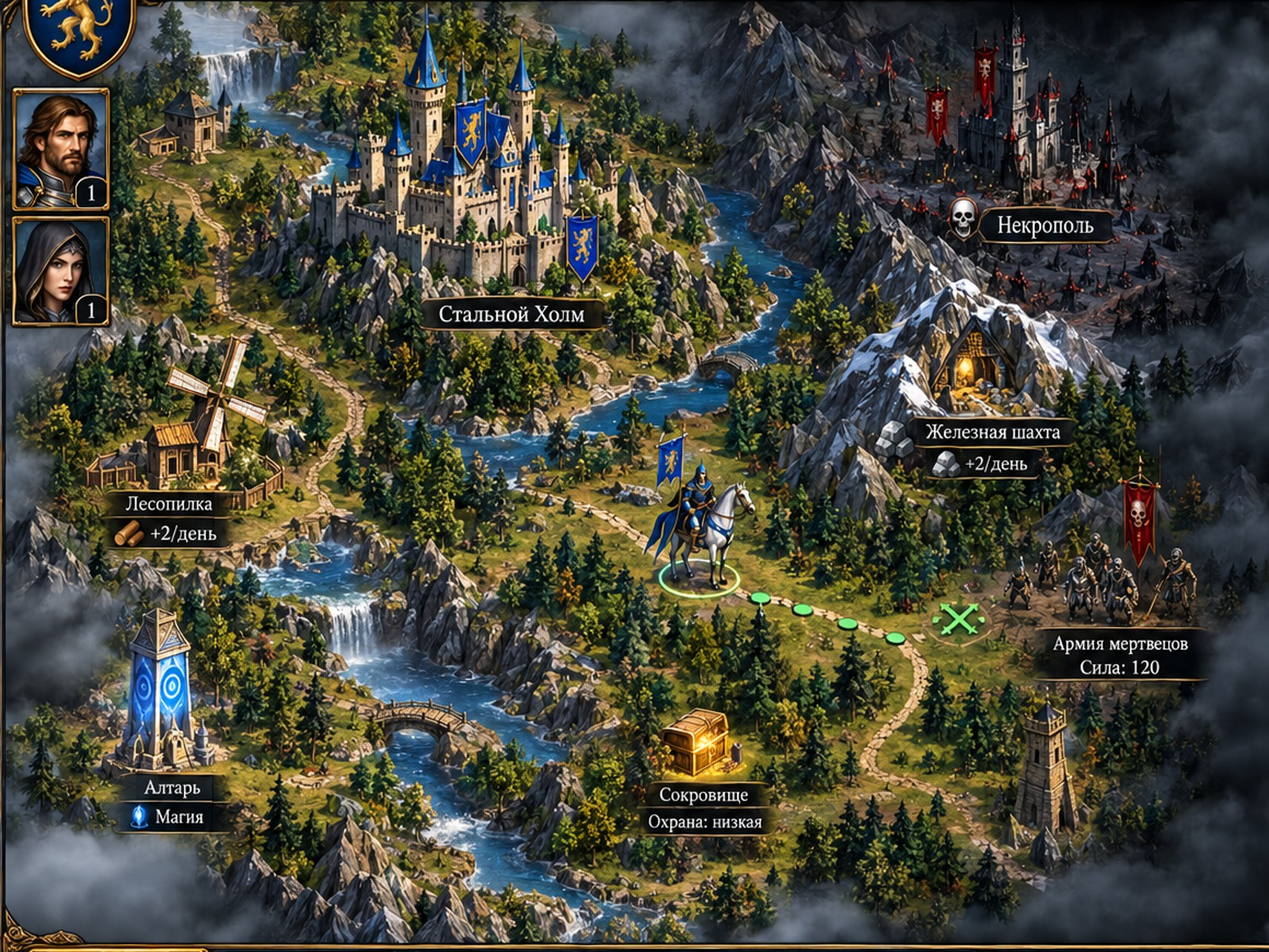
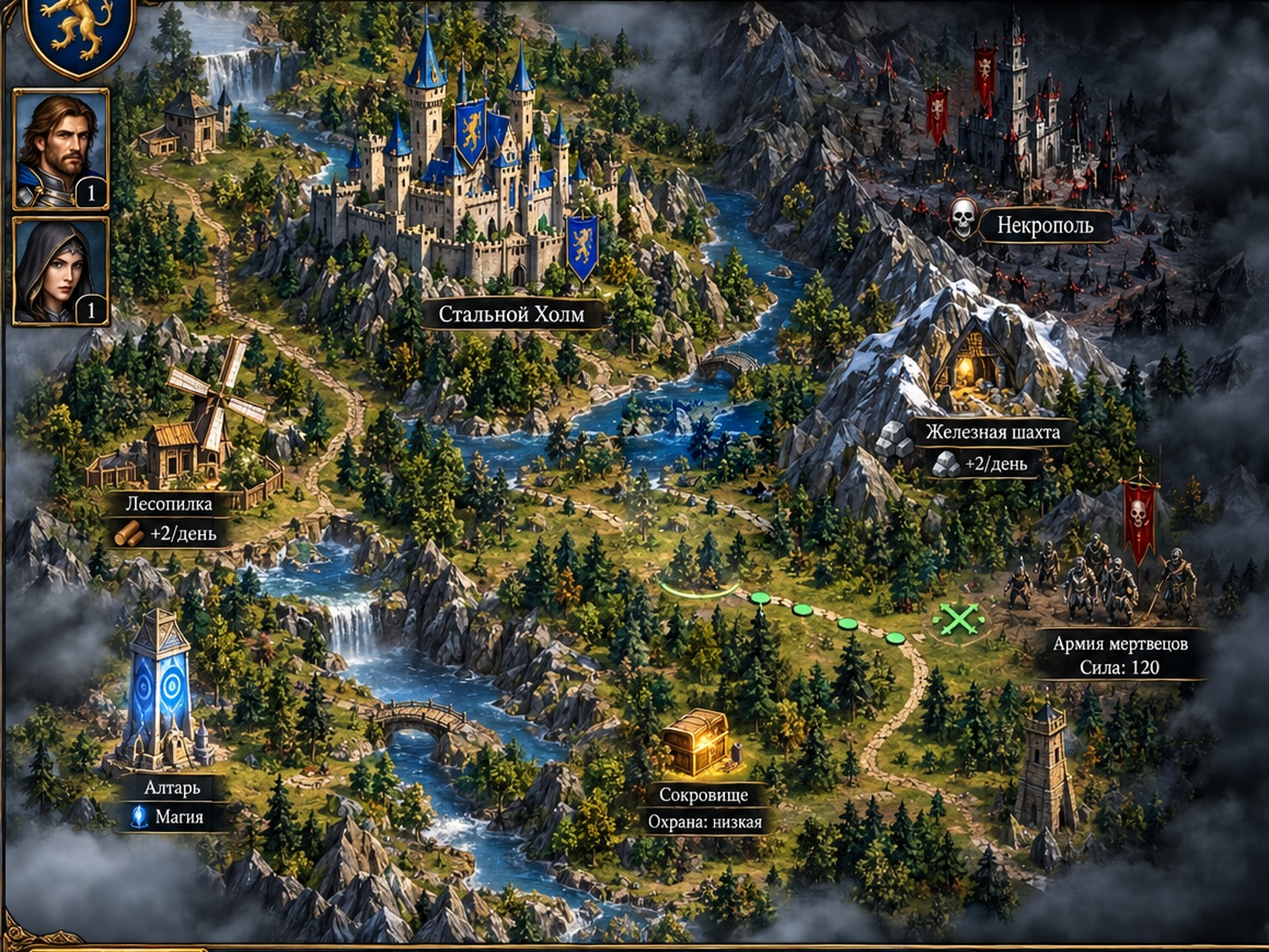
Add files via upload

Changed region(s): [[0.4688, 0.4008, 0.625, 0.6167]]

diff --git a/index.html b/index.html
@@ -8,7 +8,7 @@
 <meta name="apple-mobile-web-app-status-bar-style" content="black-translucent">
 <meta name="apple-mobile-web-app-title" content="Королевства Пепла">
 <link rel="manifest" href="manifest.webmanifest"><link rel="apple-touch-icon" href="icon-180.png?v=721788568925">
-<title>Королевства Пепла 8.3.1 — Kingdom Edition</title>
+<title>Королевства Пепла 8.4.1 — Kingdom Edition</title>
 <style>
 :root{--gold:#ddb45c;--text:#f4ecd8;--muted:#b8af9c;--line:#735b29;--panel:#101611;--panel2:#192219}
 *{box-sizing:border-box;-webkit-tap-highlight-color:transparent}
@@ -71,11 +71,11 @@ button{font:inherit;color:inherit;touch-action:manipulation}
 <script>
 window.addEventListener('error',e=>{
  let b=document.getElementById('devVersionBadge');
- if(b){b.textContent='v8.4 · JS ERROR: '+String(e.message||'').slice(0,28);b.style.color='#ff8c7a';b.title=e.message||'JavaScript error'}
+ if(b){b.textContent='v8.4.1 · JS ERROR: '+String(e.message||'').slice(0,28);b.style.color='#ff8c7a';b.title=e.message||'JavaScript error'}
 });
 window.addEventListener('unhandledrejection',e=>{
  let b=document.getElementById('devVersionBadge');
- if(b){b.textContent='v8.4 · PROMISE ERROR';b.style.color='#ff8c7a'}
+ if(b){b.textContent='v8.4.1 · PROMISE ERROR';b.style.color='#ff8c7a'}
 });
 </script>
 <style>
@@ -87,7 +87,7 @@ window.addEventListener('unhandledrejection',e=>{
 </style>
 
 </head>
-<body><div id="devVersionBadge">v8.4</div><main class="app">
+<body><div id="devVersionBadge">v8.4.1</div><main class="app">
 <div class="top"><span class="r">🪙 <b id="gold"></b></span><span class="r">🪵 <b id="wood"></b></span><span class="r">🪨 <b id="ore"></b></span><span class="r">💎 <b id="gems"></b></span><span class="r">🔮 <b id="crystal"></b></span><span class="grow"></span><span class="r">☀ День <b id="day"></b> · Нед. <b id="week"></b> · Мес. <b id="month"></b></span></div>
 <div class="main">
 <section class="screen active" id="s-map">
@@ -97,7 +97,7 @@ window.addEventListener('unhandledrejection',e=>{
 <div class="mapHud"><div class="heroCard"><img id="hudPortrait"><div><b id="hudName"></b><div class="small">Ур. <span id="lvlm"></span> · воинов <span id="pow"></span></div><div class="progress"><i id="mvbar"></i></div></div></div><div class="mapBtns"><button class="roundBtn" id="switchHero">👥</button><button class="roundBtn" id="save">💾</button></div></div>
 </section>
 
-<section class="screen" id="s-hero"><div class="panel"><div class="title">Герои</div><div class="heroSelect" id="heroSelect"></div></div><div class="panel heroPane"><img id="heroPortrait"><div><div class="title" id="heroName"></div><div class="small" id="heroClass"></div><div class="row"><span>Атака</span><b id="atk"></b></div><div class="row"><span>Защита</span><b id="def"></b></div><div class="row"><span>Магия</span><b id="magic"></b></div><div class="row"><span>Знания</span><b id="knowledge"></b></div><div class="small">Ур. <b id="level"></b> · Опыт <b id="xp"></b></div></div></div><div class="panel"><div class="title">Армия</div><div class="grid g3" id="army"></div></div><div class="panel"><div class="title">Навыки</div><div id="skills"></div></div><div class="panel"><div class="title">Артефакты</div><div id="artifacts"></div></div><div class="panel"><div class="title">Военный совет</div><div class="small" style="margin-bottom:7px">Передача войск между Иваном и Лирой доступна, когда они стоят рядом или оба находятся в Стальном Холме.</div><div id="transferPanel"></div></div></section>
+<section class="screen" id="s-hero"><div class="panel"><div class="title">Герои</div><div class="heroSelect" id="heroSelect"></div></div><div class="panel heroPane"><img id="heroPortrait"><div><div class="title" id="heroName"></div><div class="small" id="heroClass"></div><div class="row"><span>Атака</span><b id="atk"></b></div><div class="row"><span>Защита</span><b id="def"></b></div><div class="row"><span>Магия</span><b id="magic"></b></div><div class="row"><span>Знания</span><b id="knowledge"></b></div><div class="small">Ур. <b id="level"></b> · Опыт <b id="xp"></b></div></div></div><div class="panel"><div class="title">Армия</div><div class="grid g3" id="army"></div></div><div class="panel"><div class="title">Навыки</div><div id="skills"></div></div><div class="panel"><div class="title">Артефакты</div><div id="artifacts"></div></div><div class="panel"><div class="title">Военный совет</div><div class="small" style="margin-bottom:7px">Передача войск между Иваном и Варварой доступна, когда они стоят рядом или оба находятся в Стальном Холме.</div><div id="transferPanel"></div></div></section>
 
 <section class="screen" id="s-town"><div class="panel"><div class="cityArt"></div><div class="title" style="margin-top:8px">Стальной Холм</div><div class="small">Столица северного королевства</div></div><div class="panel"><div class="title">Экономика города</div><div class="econGrid" id="econGrid"></div><div class="small" id="econHint" style="margin-top:7px"></div></div><div class="panel"><div class="title">Гарнизон</div><div id="garrison"></div></div><div class="panel"><div class="title">Строительство</div><div class="grid g2" id="buildings"></div></div><div class="panel"><div class="title">Найм</div><div class="grid g3" id="recruits"></div></div></section>
 
@@ -141,7 +141,7 @@ const assets={};const fogCanvas=document.createElement('canvas');fogCanvas.width
 function loadAssets(){return Promise.all(assetNames.map(n=>new Promise(res=>{let im=new Image();im.onload=()=>{assets[n]=im;res()};im.onerror=res;im.src=n}))).then(()=>{mapReady=true;resizeCanvas();drawMap()})}
 function heroTemplate(name,cls,img,x,y,stats,army){return{name,cls,img,x,y,px:x*CELL_W+CELL_W/2,py:y*CELL_H+CELL_H/2,moves:12,maxMoves:12,atk:stats[0],def:stats[1],magic:stats[2],knowledge:stats[3],level:1,xp:0,mana:14,manaMax:14,skills:{},artifacts:[],army:{pikes:army[0],bows:army[1],cavs:army[2],griffins:army[3],mages:army[4]},route:[]}}
 function fresh(){s={gold:2800,wood:12,ore:10,gems:3,crystal:2,day:1,week:1,month:1,activeHero:'arden',heroes:{arden:heroTemplate('Иван','Рыцарь','hero.jpg',1,1,[2,2,1,1],[24,10,0,0,0]),lyra:heroTemplate('Варвара','Боевой маг','mage.jpg',2,1,[1,1,3,2],[10,7,0,0,2])},enemy:{x:15,y:11,power:1,alive:true},seen:[],objects:JSON.parse(JSON.stringify(baseObjects)),build:{barracks:false,range:false,stable:false,griffin:false,mage:false,market:false,citadel:false},avail:{pikes:16,bows:0,cavs:0,griffins:0,mages:0},settings:{sound:true},q:{wood:false,ore:false,gems:false,artifacts:0,boss:false,tutorialMove:false,tutorialTown:false,altar:false,obelisk:false},logs:[],battle:null,garrison:{pikes:0,bows:0,cavs:0,griffins:0,mages:0},freePlay:false};ensureCriticalObjectsReachable();revealAll();log('Кампания началась. Морвейн укрепляет восточные земли.');render();centerOnHero(false)}
-function save(){localStorage.setItem('ash-v8-4-kingdom',JSON.stringify(s))}
+function save(){localStorage.setItem('ash-v8-4-1-kingdom',JSON.stringify(s))}
 function normalizeHero(hr, fallback){
  if(!hr)return fallback;
  hr.name??=fallback.name; hr.cls??=fallback.cls; hr.img??=fallback.img;
@@ -155,7 +155,7 @@ function normalizeHero(hr, fallback){
  return hr;
 }
 function load(){try{
- let raw=localStorage.getItem('ash-v8-4-kingdom')||localStorage.getItem('ash-v8-3-2-kingdom')||localStorage.getItem('ash-v8-3-kingdom')||localStorage.getItem('ash-v8-2-kingdom')||localStorage.getItem('ash-v8-1-dev-kingdom')||localStorage.getItem('ash-v8-dev-kingdom')||localStorage.getItem('ash-v7-5-dev-kingdom');
+ let raw=localStorage.getItem('ash-v8-4-1-kingdom')||localStorage.getItem('ash-v8-4-kingdom')||localStorage.getItem('ash-v8-3-2-kingdom')||localStorage.getItem('ash-v8-3-kingdom')||localStorage.getItem('ash-v8-2-kingdom')||localStorage.getItem('ash-v8-1-dev-kingdom')||localStorage.getItem('ash-v8-dev-kingdom')||localStorage.getItem('ash-v7-5-dev-kingdom');
  if(!raw)return false;
  let q=JSON.parse(raw);
  if(!q||!q.heroes||!q.heroes.arden||!q.objects)return false;
@@ -317,8 +317,8 @@ function drawDust(ctx){
 function drawAnimatedHero(ctx,k,hr){
   const active=k===s.activeHero;
   const moving=!!(hr.route&&hr.route.length);
-  const bob=Math.sin(animClock*.010+(k==='arden'?0:1.6))*(moving?5:2);
-  const sway=Math.sin(animClock*.006+(k==='arden'?0:.8))*(moving?.045:.018);
+  const bob=Math.sin(animClock*.010+(k==='arden'?0:1.6))*(moving?3.2:1.3);
+  const sway=Math.sin(animClock*.006+(k==='arden'?0:.8))*(moving?.028:.012);
   const scale=active?1:.88;
   let facing=1;
   if(moving){
@@ -331,7 +331,7 @@ function drawAnimatedHero(ctx,k,hr){
   ctx.rotate(sway);
   if(k==='arden'){
     const img=assets['ivan-rider.png'];
-    if(img)ctx.drawImage(img,-82,-102,164,164);
+    if(img)ctx.drawImage(img,-60,-78,120,138);
     else drawImageCircle(ctx,assets[hr.img],0,0,68,active?'#f0c55e':'#6d9bc7');
   }else{
     const glow=ctx.createRadialGradient(0,0,6,0,0,54);
@@ -345,7 +345,7 @@ function drawAnimatedHero(ctx,k,hr){
 
   if(active){
     ctx.beginPath();
-    ctx.ellipse(hr.px,hr.py+38,44,14,0,0,Math.PI*2);
+    ctx.ellipse(hr.px,hr.py+35,36,11,0,0,Math.PI*2);
     ctx.strokeStyle='rgba(240,197,94,.78)';
     ctx.lineWidth=4/cam.zoom;ctx.stroke();
   }
@@ -618,7 +618,7 @@ function openSpellBook(){
 }
 $('endDay').addEventListener('click',nextDay);$('endDay').addEventListener('touchend',e=>{e.preventDefault();nextDay()},{passive:false});
 $('switchHero').onclick=()=>{s.activeHero=s.activeHero==='arden'?'lyra':'arden';render();centerOnHero(false);toast('Активный герой: '+h().name)};$('save').onclick=()=>{save();toast('Игра сохранена')};
-$('soundToggle').onclick=()=>{s.settings.sound=!s.settings.sound;renderSettings();save()};$('centerHero').onclick=()=>centerOnHero();$('manualSave').onclick=()=>{save();toast('Сохранено')};$('newGame').onclick=()=>{if(confirm('Начать новую игру?')){localStorage.removeItem('ash-v8-4-kingdom');localStorage.removeItem('ash-v6-canvas');fresh();switchScreen('map')}};
+$('soundToggle').onclick=()=>{s.settings.sound=!s.settings.sound;renderSettings();save()};$('centerHero').onclick=()=>centerOnHero();$('manualSave').onclick=()=>{save();toast('Сохранено')};$('newGame').onclick=()=>{if(confirm('Начать новую игру?')){localStorage.removeItem('ash-v8-4-1-kingdom');localStorage.removeItem('ash-v8-4-kingdom');localStorage.removeItem('ash-v6-canvas');fresh();switchScreen('map')}};
 $('waitBtn').onclick=()=>{if(s.battle?.selected?.side==='p')battleTurn()};$('defBtn').onclick=()=>{let a=s.battle?.selected;if(a?.side==='p'){a.hp+=Math.ceil(bdef(a).hp*.12);battleTurn()}};$('spellBtn').onclick=openSpellBook;$('spellCancel').onclick=()=>$('spellModal').classList.add('hidden');$('retreatBtn').onclick=()=>{if(!s.battle)return;syncArmy();let hr=s.heroes[s.battle.hero];hr.x=1;hr.y=1;let p=tileCenter(1,1);hr.px=p.x;hr.py=p.y;hr.moves=0;s.gold=Math.max(0,s.gold-350);s.battle=null;$('battleModal').classList.add('hidden');render()};$('victoryClose').onclick=()=>{$('victoryModal').classList.add('hidden');s.freePlay=true;save()};
 document.querySelectorAll('.nav button').forEach(bt=>bt.onclick=()=>switchScreen(bt.dataset.s));
 try{
@@ -638,7 +638,7 @@ function heroAnimationLoop(t){
  requestAnimationFrame(heroAnimationLoop);
 }
 requestAnimationFrame(heroAnimationLoop);
-loadAssets().then(()=>{if(!load())fresh();else{revealAll();log('Сохранение загружено в 7.4.');render();centerOnHero(false)}});
+loadAssets().then(()=>{if(!load())fresh();else{revealAll();log('Сохранение загружено в 8.4.1.');render();centerOnHero(false)}});
 })();
 </script>
 <script id="dev-cache-cleanup">
@@ -652,7 +652,7 @@ loadAssets().then(()=>{if(!load())fresh();else{revealAll();log('Сохранен
       const keys=await caches.keys();
       await Promise.all(keys.map(k=>caches.delete(k)));
     }
-    console.log('v8.4: service workers unregistered and Cache Storage cleared');
+    console.log('v8.4.1: service workers unregistered and Cache Storage cleared');
   }catch(e){ console.warn('DEV cache cleanup',e); }
 })();
 
